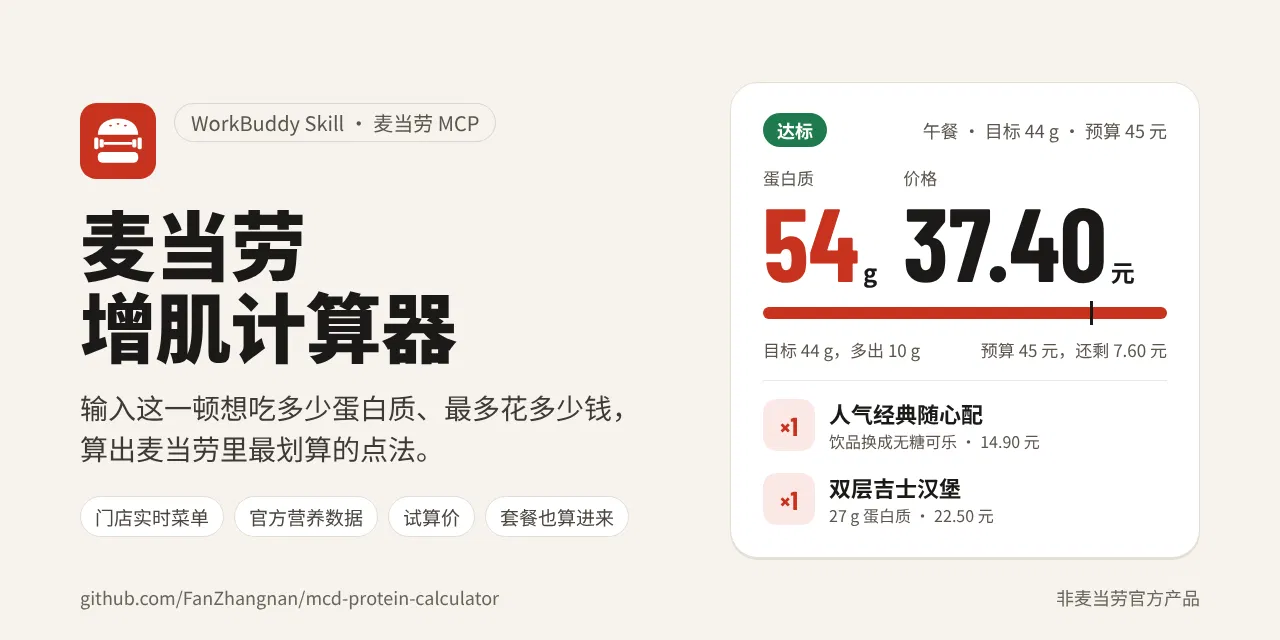
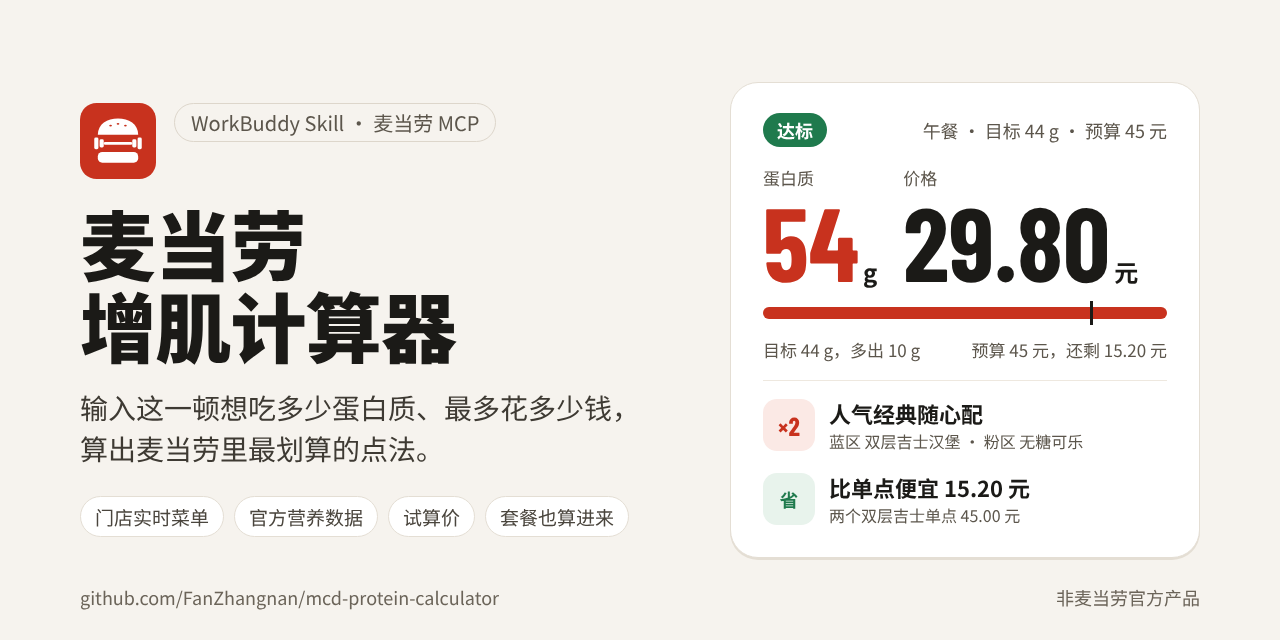
docs: new first-screen numbers, the two-portion rule and fresh brand art
README: 40 g / 45 元 → 42 g / 28.80 元（两个套餐），44 g / 45 元 → 54 g /
29.80 元（人气经典随心配 ×2）；套餐规则写成「每餐最多 2 份套餐（主食数按
套餐实际内容计算）」；实测发现补上两份套餐比单品省 15.20 元。

SKILL.md: same rule plus the 2.00 元 saver threshold, copied to
~/.workbuddy/skills/mcd-protein-calculator/SKILL.md.

Brand art: banner 2560x800 and social preview 1280x640 now show 54 g /
29.80 元 and 1.8 g/元.

diff --git a/README.md b/README.md
@@ -14,18 +14,18 @@
 
 ## 先看结果
 
-麦当劳珠海屏湾一路餐厅（门店 `1440054`），2026-10-23 的实时菜单与试算价（套餐目录生成于 2026-10-22 17:58）：
+麦当劳珠海屏湾一路餐厅（门店 `1440054`），2026-10-23 的实时菜单与试算价（套餐目录生成于 2026-10-22 20:03）：
 
 | 你的目标 | 算出来的点法 | 蛋白质 | 价格 |
 | --- | --- | --- | --- |
-| 44 g / 45 元 | 人气经典随心配（粉区换无糖可口可乐中杯）+ 双层吉士汉堡 | **54 g** | **37.40 元** |
-| 同上，想更省 | 人气经典随心配 + 麦香鸡（省钱选项，比目标少 2 g，在 3 g 容差内） | 42 g | 31.40 元 |
+| 40 g / 45 元（页面默认） | 人气经典随心配 + 精选超值随心配 | **42 g** | **28.80 元** |
+| 44 g / 45 元 | 人气经典随心配 ×2（粉区换无糖可口可乐中杯） | **54 g** | **29.80 元** |
 | 35 g / 25 元 | 预算内最多：双层深海鳕鱼堡 ×1 | 28 g（差 7 g） | 25.00 元 |
-| 同上，加到 28.90 元 | 人气经典随心配 + 汉堡包 | 40 g | 28.90 元 |
+| 同上，加到 28.80 元 | 人气经典随心配 + 精选超值随心配 | 42 g | 28.80 元 |
 
 · 用券后：麦辣鸡腿汉堡 23.00 → 11.90 元，每元蛋白质 2.0 g（2026-10-21 门店试算，券来自本人账号；券会轮换，以当日 App 为准）
 
-价格为该时段试算价，不是结算价。第二行的「44 g 目标」之所以接受 42 g，是因为默认允许少 3 g，页面会明写「比目标少 2 g」。
+价格为该时段试算价，不是结算价，两条套餐行都是门店真实试算（同款点 2 份 = 29.80 元 = 14.90 × 2）。省钱选项只有比推荐方案便宜 2.00 元以上才会单独显示，省得少就不占一张卡。
 
 | 桌面：44 g / 45 元 | 手机：35 g / 25 元 |
 | --- | --- |
@@ -64,7 +64,7 @@
 - **身体数据估算**：按体重、年龄、活动量估算每餐蛋白质与热量，只做参考，不自动变成约束
 - **点单建议**：从 POS 真实返回的可去项里生成，只改点单参数，不扣减营养数值
 - **门店实时试算价**：按当前门店、日期、餐次时间调用 `calculate-price`
-- **套餐也参与计算**：识别门店真实套餐（三件套、随心配、超值早餐等），营养按各轮官方单品相加，价格用门店真实试算；每餐最多 1 个套餐，有套餐时不再另加饮品和配菜
+- **套餐也参与计算**：识别门店真实套餐（三件套、随心配、超值早餐等），营养按各轮官方单品相加，价格用门店真实试算；每餐最多 2 份套餐（主食数按套餐实际内容计算），有套餐时不再另加饮品和配菜
 - **券后价（门店真实试算）**：只读查询当前门店可用的券，对推荐方案逐张带券试算，只有接口真的降价才显示「券后价」和券后每元蛋白质；不领券、不核销
 - **严格模式**：所有营养数字都取官方标准版整款数据，不估算、不外推
 
@@ -179,11 +179,11 @@
 5. **时段间隙会返回早餐菜单**：把午餐设成 10:30，接口返回的却是早餐的 88 个 SKU。页面会显示「午餐时段 10:30 返回的菜单与早餐完全相同，请确认取餐时间」。
 6. **券后价也是试算出来的**：2026-10-21 13:32 用「11.9 元麦辣鸡腿堡」对麦辣鸡腿汉堡试算，23.00 元 → **11.90 元**（门店 1440054，取餐时点 2026-10-22 12:15）；下单时以 App 为准。
 7. **报价必须带 `reservationDate`**：不带时只按当前时刻判断在售，凌晨给明天的晚餐报价会全部返回 `60006 商品已售罄或不可售`。带上餐次时间后同一商品正常返回价格。
-8. **核查了全部套餐**（以 2026-10-23 菜单为准，共 90 个），全部用 `calculate-price` 真实试算。套餐里部分商品没有官方营养时，在套餐允许的选项里换成有数据的选项；午餐 44 g / 45 元从单品方案的 45.00 元降到 37.40 元。
+8. **核查了全部套餐**（以 2026-10-23 菜单为准，共 90 个），全部用 `calculate-price` 真实试算。套餐里部分商品没有官方营养时，在套餐允许的选项里换成有数据的选项。套餐还能点 2 份：午餐 44 g / 45 元最终是「人气经典随心配 ×2」54 g / 29.80 元，比单品方案的 45.00 元省 15.20 元。
 
 ## 已知限制
 
-- 套餐已纳入求解（每餐最多 1 个，饮品可换成白名单饮品）。随心配已按「本轮内替换」部分纳入：某一轮的默认商品没有官方营养时，只在套餐允许的选项里换成有数据的选项，并用 `calculate-price` 验价；午餐仍有 12 个、早餐 1 个套餐因部分商品暂无官方营养未纳入。早餐卡、麦金卡等会员价依赖账号权益，不参与排序；套餐方案暂不支持券后价和点单建议。
+- 套餐已纳入求解（每餐最多 2 份，主食数按套餐实际内容计算：堡堡随心拼自带 2 个主食，就不能再叠加别的主食；饮品可换成白名单饮品）。随心配已按「本轮内替换」部分纳入：某一轮的默认商品没有官方营养时，只在套餐允许的选项里换成有数据的选项，并用 `calculate-price` 验价；午餐仍有 12 个、早餐 1 个套餐因部分商品暂无官方营养未纳入。早餐卡、麦金卡等会员价依赖账号权益，不参与排序；套餐方案暂不支持券后价和点单建议。
 
 ## 测试
 

diff --git a/skills/mcd-protein-calculator/SKILL.md b/skills/mcd-protein-calculator/SKILL.md
@@ -38,7 +38,7 @@ python3 src/server.py --offline       # 无网络时用 fixture，来源会标 o
 - `/api/meal` 支持 `protein_tolerance`（单位 g，默认 **3**，只接受 0–10 的整数）。**不要再自己用「目标 − 3」当 `protein_min` 求解**，把原始目标和容差分开传，网页与对话共用同一套逻辑。
 - 返回的 `protein_status` 只有三种：`met`（达标）、`near`（接近达标）、`under`（预算内最多）。`near` 时用 `protein_gap` 说明「比目标少 X g，在你允许的 t g 内」，**不能把 42 g 写成目标值**。
 - 原目标有解时，如果还存在更便宜的容差组合，返回 `saver`：`items`（完整组合）、`protein`、`cost`、`protein_less`（比主方案少几克）、`money_saved`（省几元）。**两个方案都要讲清楚，由用户选择。**
-- 用户选择省钱方案时，用同一份输入加 `"select":"saver"` 重新调用 `/api/meal`（不要自己改 `protein_min`，也不要本地拼组合），再用新返回的 `signature` 报价。
+- 用户选择省钱方案时，用同一份输入加 `"select":"saver"` 重新调用 `/api/meal`（不要自己改 `protein_min`，也不要本地拼组合），再用新返回的 `signature` 报价。省钱选项只在比推荐方案便宜 **2.00 元以上**时才返回；`saver` 为 `null` 就是「省得不够多」，不要自己另算一个便宜方案。
 - `under` 时放宽方案仍按**原始目标**计算；`protein_tolerance` 不会放宽价格、脂肪或热量上限。
 
 ## 产品规则（不可擅自放宽）
@@ -88,7 +88,7 @@ curl -s -X POST localhost:8765/api/meal -H 'Content-Type: application/json' \
 
 `/api/meal` 的 `items[]` 里可能出现 `kind = "combo"` 的一行：套餐作为一个整体参与求解，`combo.rounds` 是各轮选中的内容（主食 / 小食 / 饮品），`round_list` 是报价要回传的轮次参数。
 
-- 结构规则由服务端保证：**一餐最多 2 份套餐**（同一套餐点 2 份，或两个不同套餐），每份计 1 个主食，套餐份数 + 单点主食不超过主食上限；有套餐时不再额外加饮品或配菜。不要自己在对话里拼「套餐 + 另点一杯饮料」。同一套餐点 2 份只在该变体有真实两份试算价（目录里的 `quoted_price_2`）时才会出现，不要把「最多 2 份」说成任何套餐都能点两份。
+- 结构规则由服务端保证：**一餐最多 2 份套餐**（同一套餐点 2 份，或两个不同套餐），**主食数按套餐实际内容计算**——套餐各轮里属于主食的数量 × 份数，再和单点主食相加，不超过主食上限（默认 2）。所以「人气经典随心配」算 1 个主食，「堡堡随心拼（7件任选）」算 2 个；自带 2 个主食且吃满上限的多人餐（堡堡随心拼、薄皮V翅双拼十翅）在默认设置下**不会被推荐**，用户把主食上限调到 3 才会出现。有套餐时不再额外加饮品或配菜，不要自己在对话里拼「套餐 + 另点一杯饮料」。同一套餐点 2 份只在该变体有真实两份试算价（目录里的 `quoted_price_2`）时才会出现。
 - 套餐营养 = 各轮官方单品营养之和；价格 = 门店真实试算价。**不要用菜单价或各轮 diffPrice 自己加减**。某一轮要 2 份（`quantity > 1`）时，营养和 `roundList` 的数量都按 2 份算。
 - `combos.catalog` 是核查记录：`combos_found` 识别套餐、`combos_available` 可用套餐、`combos_excluded` 排除套餐（两者相加等于识别数），`variants_used` / `variants_excluded` 是变体口径，`combo_reasons` 是套餐级排除原因。**不要把套餐数和变体数相加**。用户问「为什么没算某个套餐」时，先查这里再回答。
 - 会员价套餐（早餐卡 / 麦金卡）**不进入候选**，因为价格依赖账号权益；不要拿菜单会员价和普通价混着比较。
